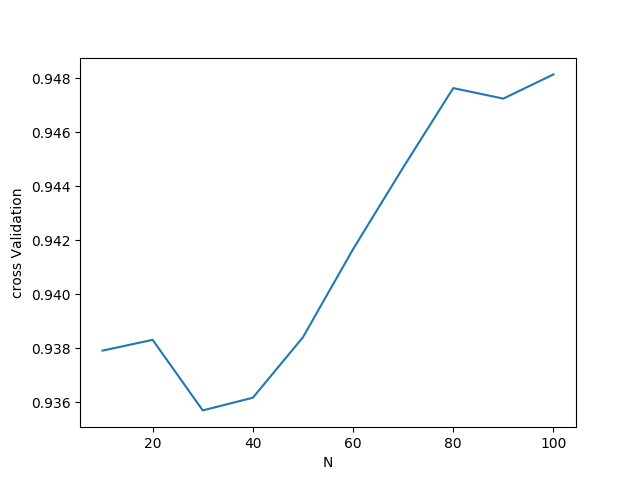
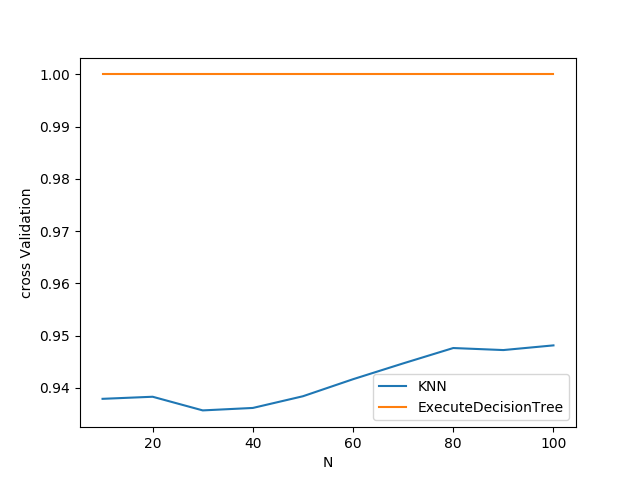
generete graph increse

diff --git a/machineLearnig.py b/machineLearnig.py
@@ -113,28 +113,29 @@ def ExecuteDecisionTree(data,cvTeste=10):
     y_train, y_test = train_test_split(data[y_columns].values.ravel(), test_size=0.3)
 
     model = DecisionTreeClassifier()
+    print(np.ravel(y_train,order='C'))
     model.fit(x_train, np.ravel(y_train,order='C'))
     predictions = model.predict(x_test)
     rfc_cv_score = cross_val_score(model,x_train,y_train, cv=cvTeste)
-    print("=== Confusion Matrix ===")
-    print(confusion_matrix(y_test, predictions))
-    print('\n')
-    print("=== Classification Report ===")
-    print(classification_report(y_test, predictions))
-    print('\n')
-    print("=== All AUC Scores ===")
-    print(rfc_cv_score)
-    print('\n')
-    print("=== Mean AUC Score ===")
-    print("Mean AUC Score - Random Forest: ", rfc_cv_score.mean())
+    #print("=== Confusion Matrix ===")
+    #print(confusion_matrix(y_test, predictions))
+    #print('\n')
+    #print("=== Classification Report ===")
+    #print(classification_report(y_test, predictions))
+    #print('\n')
+    #print("=== All AUC Scores ===")
+    #print(rfc_cv_score)
+    #print('\n')
+    #print("=== Mean AUC Score ===")
+    #print("Mean AUC Score - Random Forest: ", rfc_cv_score.mean())
     accuracy_value = accuracy_score(y_test, predictions)
-    print(accuracy_value)
+    #print(accuracy_value)
     print("__________________________________ CROSSSSSSSSSSS VALLLLLLLLLLLL ________________________________")
     cross_val = cross_val_score(model,data[x_columns],data[y_columns].values.ravel(), cv=10)
     print("{}".format(np.mean(cross_val)))
     print("__________________________________ CROSSSSSSSSSSS VALLLLLLLLLLLL ________________________________")
-
-    TesteManual(y_test,predictions)
+    #TesteManual(y_test,predictions)
+    return np.mean(cross_val)
 def equal(pre1,pre2):
     if(len(pre1)!=len(pre2)):
         return False
@@ -242,18 +243,22 @@ def CratGraph(data):
     #lines.append("N,ACCURACY")
     N=[]
     accurs=[]
+    accursEXD=[]
+    
     for i in range(1,11):
-        print("runnig with n = ",i*10)
+        print("runnig KNN  with n = ",i*10)
         accur=ExecuteKNN(data,10*i)
         N.append(i*10)
         accurs.append(accur)
-    print("N")
-    print(N)
-    print("accurs")
-    print(accur)
-    gra=plt.plot(N,accurs)
+    plt.plot(N,accurs,label="KNN")
     plt.xlabel("N")
     plt.ylabel("cross Validation")
+    for i in range(1,11):
+        print("runnig ExecuteDecisionTree with n = ",i*10)
+        accur=ExecuteDecisionTree(data,10*i)
+        accursEXD.append(accur)
+    plt.plot(N,accursEXD,label="ExecuteDecisionTree")
+    plt.legend()
     plt.savefig("graph.png")
         #lines.append(str(i*10)+","+str(accur))
     #file.writelines(lines)
@@ -321,18 +326,18 @@ def main():
     print(counts)
     #ExecuteKNN(dataClenad)
     #ExecuteDecisionTree(dataClenad)
-    #CratGraph(dataClenad)
-    le = LabelEncoder()
-    dataClenad = dataClenad.progress_apply(le.fit_transform)
-    x_columns = ['MONTH_REPORTED', 'WEEKDAY_REPORTED', 'HOUR_REPORTED', 'NEIGHBORHOOD_ID', 'OFFENSE_WEIGH', 'COUNT']
-    y_columns = ['SAFETY']
-    x_train, x_test = train_test_split(dataClenad[x_columns], test_size=0.3)
-    y_train, y_test = train_test_split(dataClenad[y_columns].values.ravel(), test_size=0.3)
-    Dec = DecisionTreeClassifier()
-    predictions = bagging(5, len(y_test), Dec, x_train, np.ravel(y_train, order='C'), x_train)
-    print(predictions)
-    print(y_test)
-    accuracy_value = accuracy_score(y_test, predictions)
+    #le = LabelEncoder()
+    #dataClenad = dataClenad.progress_apply(le.fit_transform)
+    #x_columns = ['MONTH_REPORTED', 'WEEKDAY_REPORTED', 'HOUR_REPORTED', 'NEIGHBORHOOD_ID', 'OFFENSE_WEIGH', 'COUNT']
+    #y_columns = ['SAFETY']
+    CratGraph(dataClenad)
+    #x_train, x_test = train_test_split(dataClenad[x_columns], test_size=0.3)
+    #y_train, y_test = train_test_split(dataClenad[y_columns].values.ravel(), test_size=0.3)
+    #Dec = DecisionTreeClassifier()
+    #predictions = bagging(5, len(y_test), Dec, x_train, np.ravel(y_train, order='C'), x_train)
+    #print(predictions)
+    #print(y_test)
+    #accuracy_value = accuracy_score(y_test, predictions)
     # ExecuteRandomForest(dataClenad)
     #ExecuteRandomForest(dataClenad)
 
